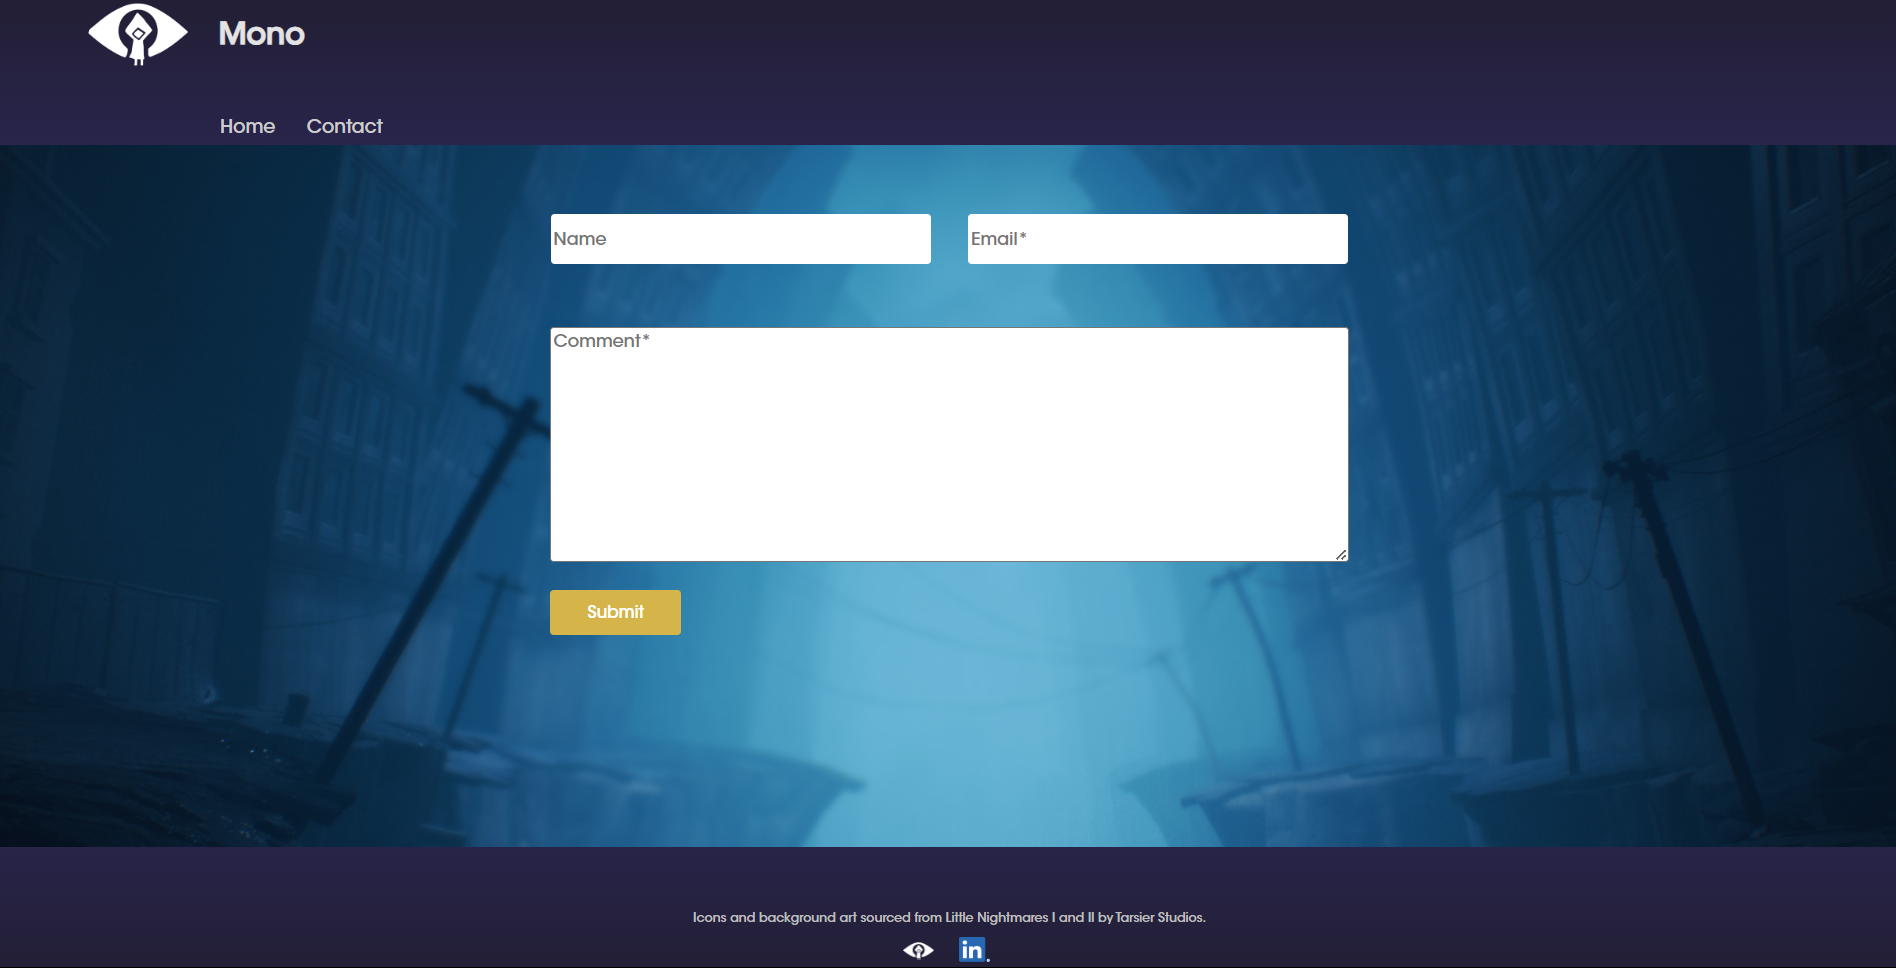
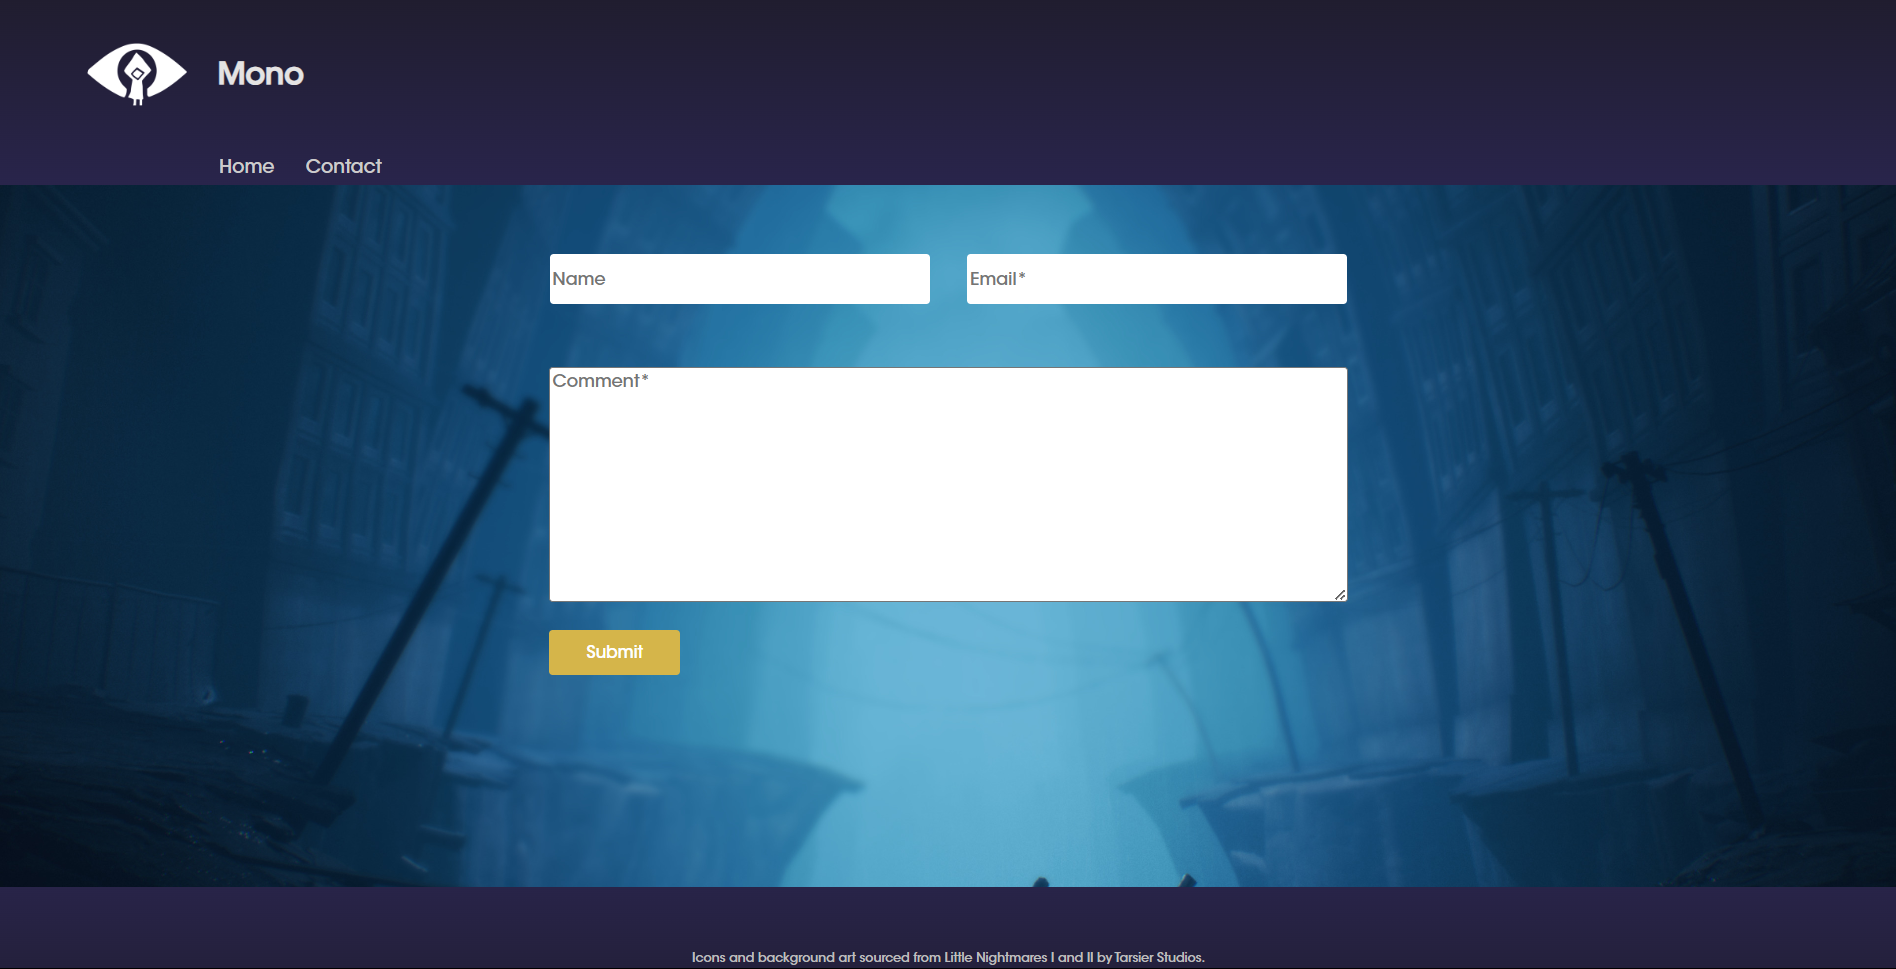
added buttons in footer, tried to add analytics

Changed region(s): [[0.0, 0.0, 1.0, 0.4029], [0.0, 0.8678, 1.0, 1.0], [0.2801, 0.5579, 0.7157, 0.7128]]

diff --git a/components/Page2.js b/components/Page2.js
@@ -108,12 +108,12 @@ const Page2 = () => {
     {/* PROJECTS */}
         {/* 4th Row */}
                         <div className="flex justify-center col-span-2 col-start-1 row-start-4 mt-[-8rem]">
-                            <h2 className="z-40 text-4xl text-white lnFont" id="proj-heading">Projects</h2>
+                            <h2 className="z-40 text-4xl text-white lnFont" id="proj-heading">Projects and Other Works</h2>
                         </div>
 
                         <div className="mt-[40px] col-span-1 col-start-1 row-start-4 h-[85%] w-full backdrop-blur-[6px]" id="proj-box">  
                             <div className="lbox rounded-xl bg-primary/50 absolute top-[5%] right-[10%] backdrop-blur-[6px]">back box</div>
-                                <div className="lbox rounded-xl border-[1px] opacity-75 absolute top-[14%] right-[14%] backdrop-blur-[6px]" id="bgFull"></div>
+                                <div className="lbox rounded-xl border-[1px] opacity-75 absolute top-[14%] right-[14%] backdrop-blur-[6px]" id="mg3"></div>
                                     <div className="border-[1px] border-background rounded-xl shadow-lg shadow-background/25 lbox absolute top-[25%] right-[15%]" id="rectangle2">
                                         <div className="rounded-lg" id="mg2"></div>
                                     </div>
@@ -125,24 +125,24 @@ const Page2 = () => {
         {/* 4th Row */}
                         <div className="mt-[40px] col-span-1 col-start-2 row-start-4 h-[85%] w-full backdrop-blur-[6px]" id="proj-box">
                             <div className="rbox rounded-xl bg-primary/50 absolute top-[5%] left-[10%] backdrop-blur-[6px]">back box</div>
-                                <div className="rbox rounded-xl border-[1px] opacity-75 absolute top-[14%] left-[14%] backdrop-blur-[6px]" id="ln3"></div>
+                                <div className="rbox rounded-xl border-[1px] opacity-75 absolute top-[14%] left-[14%] backdrop-blur-[6px]" id="py3"></div>
                                     <div className="border-[1px] border-b-background rounded-xl shadow-lg shadow-background/25 rbox absolute top-[25%] left-[15%]" id="rectangle3">
-                                        <div className="rounded-lg" id="ln2"></div>
+                                        <div className="rounded-lg" id="py2"></div>
                                     </div>
                                     <div className="border-[1px] border-b-background rounded-xl shadow-lg shadow-background/25 rbox absolute top-[25%] left-[15%] animate-fadeInOut animation-delay-2000" id="rectangle3">
-                                        <div className="rounded-lg" id="ln1"></div>
+                                        <div className="rounded-lg" id="py1"></div>
                                     </div>
                         </div>
 
         {/* 5th Row */}
                         <div className="mt-[40px] col-span-1 col-start-1 row-start-5 h-[85%] w-full backdrop-blur-[6px]" id="proj-box">  
                             <div className="lbox rounded-xl bg-primary/50 absolute top-[5%] right-[10%] backdrop-blur-[6px]">back box</div>
-                                <div className="lbox rounded-xl border-[1px] opacity-75 absolute top-[14%] right-[14%] backdrop-blur-[6px]" id="py3"></div>
+                                <div className="lbox rounded-xl border-[1px] opacity-75 absolute top-[14%] right-[14%] backdrop-blur-[6px]" id="ln3"></div>
                                     <div className="border-[1px] border-background rounded-xl shadow-lg shadow-background/25 lbox absolute top-[25%] right-[15%]" id="rectangle2">
-                                        <div className="rounded-lg" id="py2"></div>
+                                        <div className="rounded-lg" id="ln2"></div>
                                     </div>
-                                    <div className="border-[1px] border-background rounded-xl shadow-lg shadow-background/25 lbox absolute top-[25%] right-[15%] animate-fadeInOut" id="rectangle2">
-                                        <div className="rounded-lg" id="py1"></div>
+                                    <div className="border-[1px] border-background rounded-xl shadow-lg shadow-background/25 lbox absolute top-[25%] right-[15%] animate-fadeInOut animation-delay-2000" id="rectangle2">
+                                        <div className="rounded-lg" id="ln1"></div>
                                     </div>
                         </div>
                         
@@ -151,10 +151,10 @@ const Page2 = () => {
                             <div className="rbox rounded-xl bg-primary/50 absolute top-[5%] left-[10%] backdrop-blur-[6px]">back box</div>
                                 <div className="rbox rounded-xl border-[1px] opacity-75 absolute top-[14%] left-[14%] backdrop-blur-[6px]" id="">add img here</div>
                                     <div className="border-[1px] border-b-background rounded-xl shadow-lg shadow-background/25 rbox absolute top-[25%] left-[15%]" id="rectangle3">
-                                        <div className="rounded-lg" id="">second img</div>
+                                        <div className="rounded-lg" id="">2</div>
                                     </div>
-                                    <div className="border-[1px] border-b-background rounded-xl shadow-lg shadow-background/25 rbox absolute top-[25%] left-[15%] animate-fadeInOut animation-delay-2000" id="rectangle3">
-                                        <div className="rounded-lg" id="">front img</div>
+                                    <div className="border-[1px] border-b-background rounded-xl shadow-lg shadow-background/25 rbox absolute top-[25%] left-[15%] animate-fadeInOut" id="rectangle3">
+                                        <div className="rounded-lg" id="">1</div>
                                     </div>
                         </div>
 

diff --git a/components/ParallaxComp.js b/components/ParallaxComp.js
@@ -73,7 +73,7 @@ const ParallaxComp = () => {
             {/* 1st row */}
             <ParallaxLayer offset={1.62} speed={0.33}>
                 <div id="page-block2">
-                    <div id="page-container2" className="">
+                    <div id="page-container2">
                         <div className="flex justify-center h-full">
                             <div className="grid grid-rows-1">
                                 <div className="col-span-1 col-start-2">
@@ -99,7 +99,7 @@ const ParallaxComp = () => {
             {/* 2nd row */}
             <ParallaxLayer offset={2} speed={0.33}>
                 <div id="page-block2">
-                    <div id="page-container2" className="">
+                    <div id="page-container2">
                         <div className="flex justify-center h-full">
                             <div className="grid grid-rows-1">
                                 <div className="col-span-1 col-start-1 row-start-1">
@@ -159,18 +159,13 @@ const ParallaxComp = () => {
             {/* 4th row */}
             <ParallaxLayer offset={3.05} speed={0.33}>
                 <div id="page-block2">
-                    <div id="page-container2" className="">
+                    <div id="page-container2">
                         <div className="flex justify-center h-full">
                             <div className="grid grid-rows-1">
-                                <div className="col-span-1 col-start-1 row-start-1">
 
-                                    {/* <div className="rbox2" id="titleL"> <--- rbox2 was removed here --->
-                                        <p className="box-content rounded-md h-12 p-3 text-2xl text-white border-2 border-background/25 bg-middle/75 backdrop-blur-[6px] lnFont">
-                                            Projects
-                                        </p>
-                                    </div> */}
-                                    
-                                    <div className="rbox2"> {/* added this here for now */}
+                        {/* 1 */}
+                                <div className="col-span-1 col-start-1 row-start-1">
+                                    <div className="rbox2">
                                         <p className="mt-24 text-lg text-white translate-x-8 metropolisR">
                                             A capstone project built to simplify food ordering operations with a dedicated web app, automating ordering and payment 
                                             for enhanced convenience.
@@ -178,10 +173,11 @@ const ParallaxComp = () => {
                                     </div>
                                 </div>
                                 
+                        {/* 2 */}
                                 <div className="col-span-1 col-start-2 row-start-1">
-                                    <div className="lbox2"> {/* added this here for now */}
+                                    <div className="lbox2">
                                         <p className="mt-24 text-lg text-right text-white translate-x-[-2rem] metropolisR">
-                                            This is a fan-made website for a game series called Little Nightmares, built for fun.
+                                            An application to calculate an online retail business' daily profits.
                                         </p>
                                     </div>
 
@@ -198,25 +194,23 @@ const ParallaxComp = () => {
                     <div id="page-container2" className="">
                         <div className="flex justify-center h-full">
                             <div className="grid grid-rows-1">
-                                <div className="col-span-1 col-start-1 row-start-1">
 
-                                    {/* <div className="rbox2" id="titleL"> <--- rbox2 was removed here --->
-                                        <p className="box-content rounded-md h-12 p-3 text-2xl text-white border-2 border-background/25 bg-middle/75 backdrop-blur-[6px] lnFont">
-                                            Projects
-                                        </p>
-                                    </div> */}
-                                    
-                                    <div className="rbox2"> {/* added this here for now */}
+                        {/* 3 */}
+                        
+                                <div className="col-span-1 col-start-1 row-start-1"> 
+                                    <div className="rbox2">
                                         <p className="mt-24 text-lg text-white translate-x-8 metropolisR">
-                                            Project description here
+                                            This is a fan-made simple website for a game series called Little Nightmares built for fun.
                                         </p>
                                     </div>
                                 </div>
                                 
+                                
+                        {/* 4 */}
                                 <div className="col-span-1 col-start-2 row-start-1">
-                                    <div className="lbox2"> {/* added this here for now */}
+                                    <div className="lbox2">
                                         <p className="mt-24 text-lg text-right text-white translate-x-[-2rem] metropolisR">
-                                            Project description here
+                                            Project/Work description here
                                         </p>
                                     </div>
 

diff --git a/components/Footer.js b/components/Footer.js
@@ -6,9 +6,25 @@ import React from "react";
 
 const Footer = () => {
     return (
-        <footer className="absolute z-40 inset-x-0 bottom-0 bg-primary pt-2 pb-2 text-center text-white text-xs">
-            © {new Date().getFullYear()}{" "} Edward Montilla. All Rights Reserved.
-        </footer>
+        <>
+        <div className="hidden"> {/* hidden for now! */}
+            <div className="">
+                <div className="">
+                    <button className="p-4 text-white border-2 bg-primary">View Project 1</button>
+                    <button className="p-4 text-white border-2 bg-primary">View Project 2</button>
+                </div>
+            </div>
+            <div className="">
+                <div className="">
+                    <button className="p-4 text-white border-2 bg-primary">View Project 3</button>
+                    <button className="p-4 text-white border-2 bg-primary">View Project 4</button>
+                </div>
+            </div>
+        </div>
+            <footer className="absolute inset-x-0 bottom-0 z-40 pt-2 pb-2 text-xs text-center text-white bg-primary">
+                © {new Date().getFullYear()}{" "} Edward Montilla. All Rights Reserved.
+            </footer>
+        </>
     );
 }
 

diff --git a/app/page.js b/app/page.js
@@ -6,7 +6,7 @@ import React, { useState, useEffect } from "react";
 import Header from "@/components/Header";
 import NavMenu from "@/components/NavMenu";
 import ParallaxComp from "@/components/ParallaxComp";
-
+import { Analytics } from "@vercel/analytics/react"
 
 
 
@@ -32,9 +32,11 @@ export default function Home() {
   return (
     <>
       <section>
+        <Analytics />
         <Header NavMenu={<NavMenu />} />
 
         <ParallaxComp />
+        
         {/* Footer */}
       </section>
     </>

diff --git a/app/layout.js b/app/layout.js
@@ -3,6 +3,7 @@ import Footer from "@/components/Footer";
 import './globals.css';
 import './parallax.css';
 import NavMenu from "@/components/NavMenu";
+import { Analytics } from "@vercel/analytics/react"
 
 export const metadata = {
   title: 'Edward Montilla',
@@ -15,6 +16,7 @@ export default function RootLayout({ children }) {
  return (
   <html>
     <body>
+      <Analytics />
       {/* <Header NavMenu={<NavMenu />} /> */}
       {children}
       {/* <Footer /> */}

diff --git a/app/parallax.css b/app/parallax.css
@@ -154,7 +154,7 @@
     justify-content: center;
     background-size: cover;
 }
-#bgFull {
+#mg3 {
     background-image: url(/images/BG-Full-Opacity.png);
     width: 440px;
     height: 250px;
